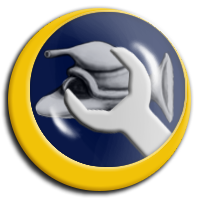
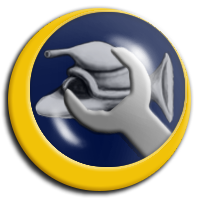
Added gameSelectScreen Art
- Replaced First Icon
- Added Second Icon
- Changed CSS to display background appropriately when resized

diff --git a/RocketReadingApp/css/gameSelectScreen.css b/RocketReadingApp/css/gameSelectScreen.css
@@ -1,6 +1,6 @@
 #gameSelectScreen{
     background-position: center;
-    background-size: 100% 100%;
+    background-size: cover;
     background-repeat: no-repeat;
 }
 
